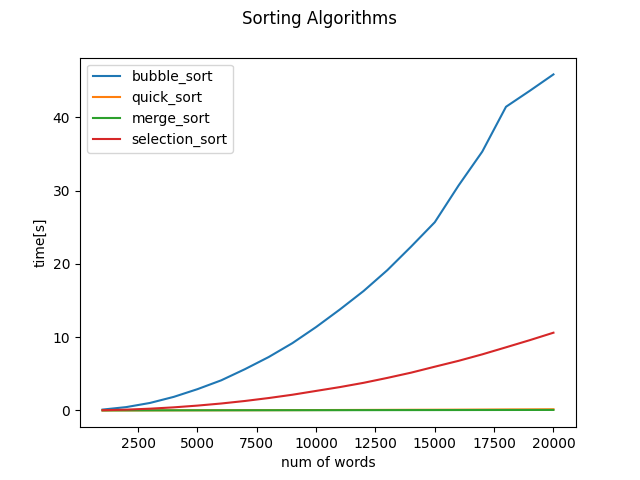
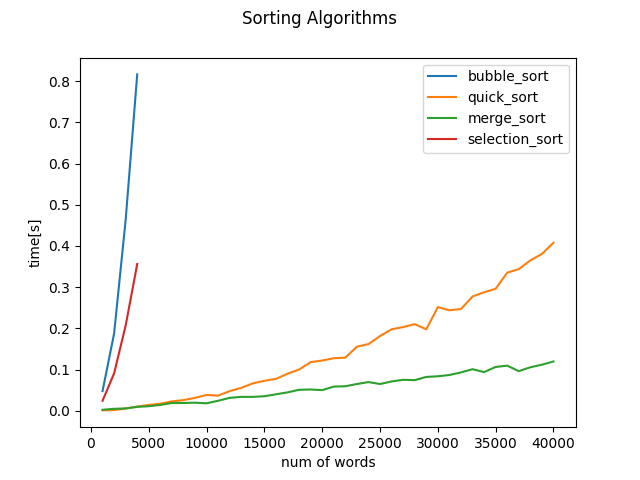
improvec bubble and added more measurements to testing sorts

diff --git a/test_sort.py b/test_sort.py
@@ -1,4 +1,13 @@
 import sort_lib
+import sys
+
+sys.setrecursionlimit(10000)
+
+text = []
+with open('pan-tadeusz.txt', 'r', encoding='utf-8') as fp:
+    for line in fp:
+        text.extend(map(str.lower, line.split()))
+
 
 def test_bubble_sort():
     assert sort_lib.bubble_sort([1,2,3]) == [1,2,3]
@@ -6,6 +15,7 @@ def test_bubble_sort():
     assert sort_lib.bubble_sort([3,2,1]) == [1,2,3]
     assert sort_lib.bubble_sort([2,1,3]) == [1,2,3]
     assert sort_lib.bubble_sort(list('bruh')) == ['b', 'h', 'r', 'u']
+    assert sort_lib.bubble_sort(text[:1000]) == sorted(text[:1000])
 
 
 def test_merge_sort():
@@ -14,6 +24,7 @@ def test_merge_sort():
     assert sort_lib.merge_sort([3,2,1]) == [1,2,3]
     assert sort_lib.merge_sort([2,1,3]) == [1,2,3]
     assert sort_lib.merge_sort(list('bruh')) == ['b', 'h', 'r', 'u']
+    assert sort_lib.merge_sort(text) == sorted(text)
 
 def test_selection_sort():
     assert sort_lib.selection_sort([1,2,3]) == [1,2,3]
@@ -21,6 +32,7 @@ def test_selection_sort():
     assert sort_lib.selection_sort([3,2,1]) == [1,2,3]
     assert sort_lib.selection_sort([2,1,3]) == [1,2,3]
     assert sort_lib.selection_sort(list('bruh')) == ['b', 'h', 'r', 'u']
+    assert sort_lib.selection_sort(text[:10000]) == sorted(text[:10000])
 
 def test_quick_sort():
     a2 = [1, 7, 4, 1, 10, 9, -2]
@@ -31,3 +43,4 @@ def test_quick_sort():
     assert sort_lib.quick_sort([2,1,3], 0, 2) == [1,2,3]
     assert sort_lib.quick_sort(a3, 0, len(a3)-1) == ['b', 'h', 'r', 'u']
     assert sort_lib.quick_sort(a2, 0, len(a2)-1) == [-2, 1, 1, 4, 7, 9, 10]
+    assert sort_lib.quick_sort(text) == sorted(text)

diff --git a/main.py b/main.py
@@ -2,6 +2,10 @@ import matplotlib.pyplot as plt
 import sort_lib
 import time
 import gc
+import sys
+
+sys.setrecursionlimit(20000)
+NUM_OF_MEASUREMENTS = 20
 
 text = []
 with open('pan-tadeusz.txt', 'r', encoding='utf-8') as fp:
@@ -22,15 +26,25 @@ def test_sorting(func, text, min, max, increments):
     test_t = []
     test_n = []
     for i in range(min, max+1, increments):
-        test_t.append(measure_time(func, i, text))
+        if ((func.__name__ == "bubble_sort" or func.__name__ == "selection_sort") and i > 4000):
+            #limit for bubble and selection sort so it doesnt take so much time
+            continue
+
+        del_time = 0
+
+        for j in range(NUM_OF_MEASUREMENTS):
+            del_time += measure_time(func, i, text)
+        del_time = del_time/NUM_OF_MEASUREMENTS
+        test_t.append(del_time)
         test_n.append(i)
+        print(f'num of iteration {i}')
     return test_n, test_t
 
 def main():
     func_list = [sort_lib.bubble_sort, sort_lib.quick_sort, sort_lib.merge_sort, sort_lib.selection_sort]
     func_out_list = []
     for x in func_list:
-        func_out_list.append((x, test_sorting(x, text, 1000, 100000, 1000)))
+        func_out_list.append((x, test_sorting(x, text, 1000, 40000, 1000)))
 
     for i in range(len(func_out_list)):
         fname = func_out_list[i][0].__name__
